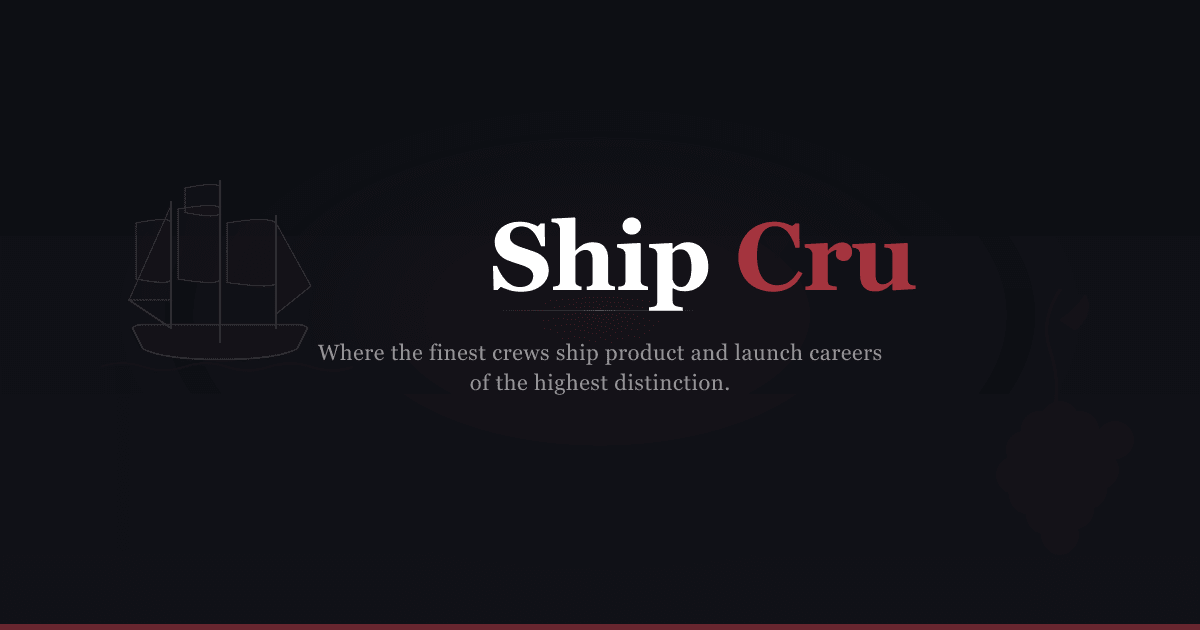
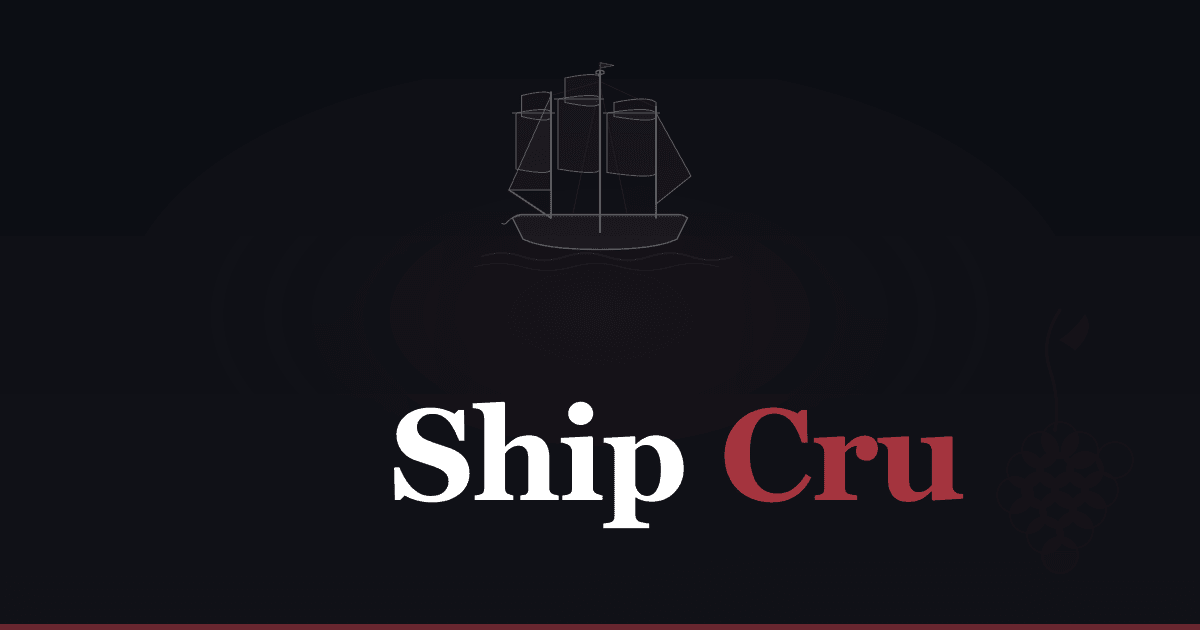
Center and enlarge OG image, increase slogan size
- Center ship logo in OG image with larger scale (0.7)
- Remove tagline from OG image, just logo + name
- Increase title font to 130px in OG image
- Bump slogan to text-xl/2xl/display-sm on the page

diff --git a/apps/web/app/page.tsx b/apps/web/app/page.tsx
@@ -102,7 +102,7 @@ export default function Home() {
           <div className="mx-auto mt-6 h-px w-24 bg-gradient-to-r from-transparent via-white/20 to-transparent" />
 
           {/* Tagline */}
-          <p className="font-display mx-auto mt-5 max-w-2xl text-lg sm:text-xl md:text-display-xs leading-relaxed text-gray-400">
+          <p className="font-display mx-auto mt-5 max-w-2xl text-xl sm:text-2xl md:text-display-sm leading-relaxed text-gray-400">
             Where the <span className="text-burgundy">finest</span> crews <span className="text-white">ship</span> product and <span className="text-white">launch</span> careers of the highest <span className="text-burgundy">distinction</span>.
           </p>
         </div>
